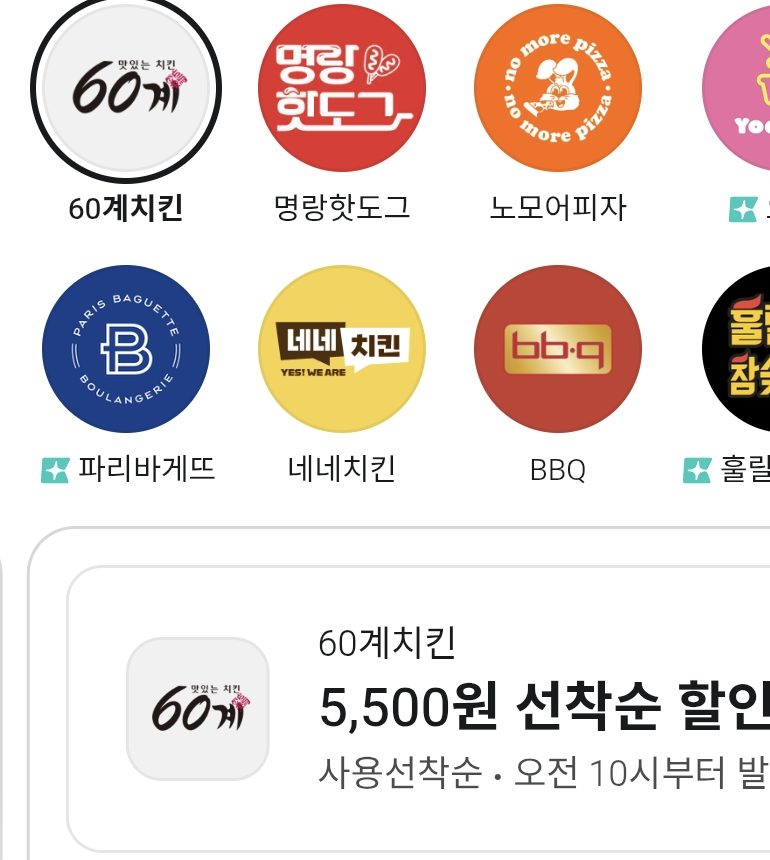
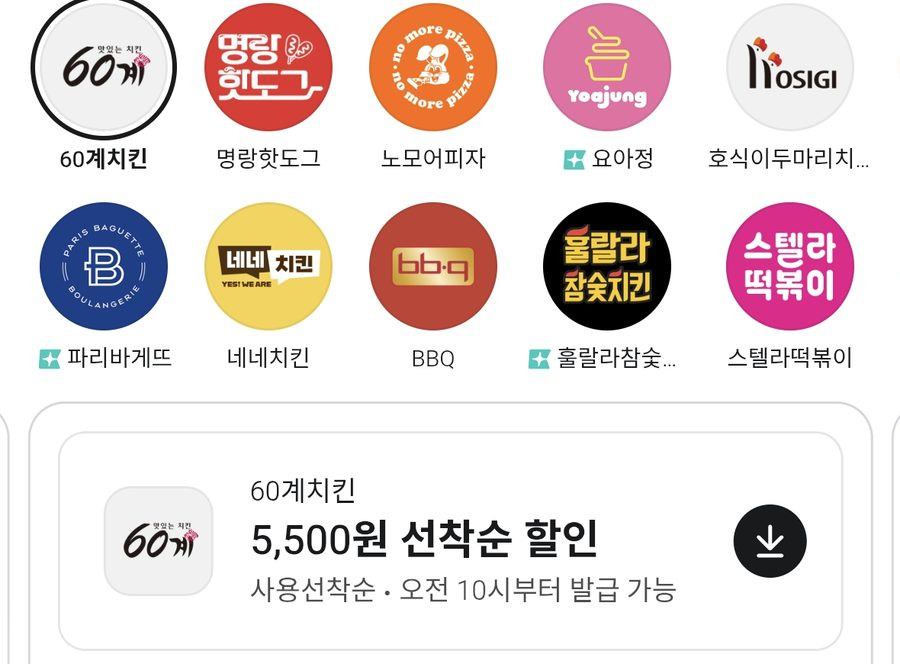
mirror: woowacourse-teams/2026-to-discount@99dfe029fcc38145db5ab3a02e480b0cabfeba2a
이 저장소에 직접 커밋하지 않는다. 원본은 woowacourse-teams/2026-to-discount의 web/ 이고, 여기 직접 넣은 것은 다음 미러에 덮인다.

diff --git a/public/about/index.html b/public/about/index.html
@@ -49,8 +49,10 @@
     .slide { position: relative; height: 100dvh; display: flex; flex-direction: column; justify-content: center; padding: 72px 20px 88px; overflow: hidden; }
     .slide__in { width: 100%; max-width: 1080px; margin: 0 auto; }
     .brand { position: absolute; top: 20px; left: 20px; right: 20px; max-width: 1080px; margin: 0 auto; font-weight: 800; text-decoration: none; letter-spacing: -.01em; }
-    .next { position: absolute; left: 50%; bottom: 24px; transform: translateX(-50%); width: 40px; height: 40px; display: grid; place-items: center; border-radius: 50%; color: var(--muted); text-decoration: none; }
+    .next { position: absolute; left: 50%; bottom: 24px; transform: translateX(-50%); width: 40px; height: 40px; display: grid; place-items: center; border-radius: 50%; color: var(--muted); text-decoration: none; z-index: 2; }
     .next svg { width: 20px; height: 20px; }
+    @media (max-width: 767px) { .next { bottom: 6px; width: 36px; height: 36px; background: color-mix(in srgb, var(--bg) 72%, transparent); } }
+    .pg { position: fixed; right: 16px; bottom: 12px; z-index: 3; color: var(--muted); font-size: .72rem; font-variant-numeric: tabular-nums; letter-spacing: .02em; pointer-events: none; }
 
     h1, h2 { margin: 0; letter-spacing: -.035em; font-weight: 800; text-wrap: balance; }
     h1 { font-size: clamp(2.3rem, 7vw, 3.8rem); line-height: 1.12; }
@@ -93,32 +95,30 @@
       .slide--shot { height: 100dvh; padding-bottom: 0; justify-content: flex-start; }
       .slide--shot .slide__in { flex: 1; display: flex; flex-direction: column; }
       .slide--shot .split { flex: 1; align-content: start; }
-      .slide--shot .next { display: none; }
     }
 
 
     /* 4. 멤버십 유무 비교: 같은 시각에 찍은 화면. 앱마다 한 줄, 멤버십 화면과 비회원 화면을 나란히 */
     .diff { display: grid; grid-template-columns: minmax(0, 1fr); gap: 22px; align-items: center; }
-    .slide--diff { padding-top: 64px; padding-bottom: 40px; }
+    .slide--diff { padding-top: 64px; padding-bottom: 48px; }
     .grid4 { display: grid; gap: 14px; width: 100%; max-width: 460px; justify-self: center; }
     .grid4 .row { display: grid; grid-template-columns: repeat(2, minmax(0, 1fr)); gap: 10px 12px; }
     .grid4 .row__app { grid-column: 1 / -1; display: flex; align-items: center; gap: 8px; margin: 0; font-weight: 700; letter-spacing: -.015em; }
     .grid4 .row__app img { width: 24px; height: 24px; border-radius: 7px; }
     .grid4 figure { margin: 0; min-width: 0; }
-    .grid4 img.shot { display: block; width: 100%; height: auto; aspect-ratio: 1 / 1.02; object-fit: cover; object-position: top; border-radius: 14px; border: 1px solid var(--border); box-shadow: 0 16px 32px -20px rgba(0, 0, 0, .5); }
+    .grid4 img.shot { display: block; width: 100%; height: auto; object-fit: cover; object-position: top; border-radius: 14px; border: 1px solid var(--border); box-shadow: 0 16px 32px -20px rgba(0, 0, 0, .5); }
     .grid4 figcaption { margin-top: 8px; font-weight: 700; font-size: .95rem; letter-spacing: -.015em; line-height: 1.3; }
     .grid4 figcaption span { display: block; color: var(--muted); font-weight: 500; font-size: .8rem; }
     .grid4 .is-member figcaption { color: var(--sale); }
-    @media (max-width: 767px) { .slide--diff .next { display: none; } }
 
     /* 5. 기기 구조: 수집 PC와 실기기, 서버, 사용자 기기 */
-    .arch { margin: 0; padding: 0; list-style: none; display: grid; gap: 8px; width: 100%; justify-self: center; }
-    .node { display: grid; gap: 8px; justify-items: center; text-align: center; padding: 12px; border: 1px solid var(--border); border-radius: 18px; background: var(--surface); min-width: 0; }
+    .arch { margin: 0; padding: 0; list-style: none; display: grid; gap: 3px; width: 100%; justify-self: center; }
+    .node { display: grid; gap: 4px; justify-items: center; text-align: center; padding: 8px 12px; border: 1px solid var(--border); border-radius: 18px; background: var(--surface); min-width: 0; }
     .node b { font-size: 1.02rem; letter-spacing: -.02em; line-height: 1.3; }
-    .node .sub { color: var(--muted); font-size: .86rem; line-height: 1.4; }
+    .node .sub { color: var(--muted); font-size: .82rem; line-height: 1.35; }
     .icons { display: flex; align-items: center; justify-content: center; gap: 12px; }
-    .ico { width: 52px; height: 52px; color: var(--text); }
-    .ico--s { width: 40px; height: 52px; }
+    .ico { width: 42px; height: 42px; color: var(--text); }
+    .ico--s { width: 32px; height: 42px; }
     .ico svg { display: block; width: 100%; height: 100%; fill: none; stroke: currentColor; stroke-width: 2; stroke-linecap: round; stroke-linejoin: round; }
     .phones { display: flex; gap: 10px; }
     .phone-tag { display: grid; justify-items: center; gap: 4px; }
@@ -135,15 +135,19 @@
     .card h3 { margin: 0; display: flex; align-items: center; gap: 8px; font-size: 1.02rem; letter-spacing: -.02em; line-height: 1.3; }
     .card h3::before { content: counter(card); flex: none; display: grid; place-items: center; width: 1.45rem; height: 1.45rem; border-radius: 50%; background: var(--sale); color: #fff; font-size: .78rem; font-weight: 800; font-variant-numeric: tabular-nums; }
     .card p { margin: 0; color: var(--muted); font-size: .86rem; line-height: 1.4; }
-    .slide--cards { padding: 52px 16px 16px; }
-    .slide--cards .next { display: none; }
+    .slide--cards { padding: 40px 16px 46px; }
+    .slide--cards h2 { font-size: 1.6rem; }
+    .slide--cards h2 br { display: none; }
+    .slide--cards h2 br + em { margin-left: .28em; }
     .slide--cards .diff { gap: 14px; }
     .slide--cards .lead { margin-top: 10px; font-size: 1rem; }
     .slide--cards .card { padding: 10px; gap: 6px; }
     .vis { height: 58px; overflow: hidden; border-radius: 12px; background: var(--code-bg); position: relative; }
-    .vis--code { height: 112px; }
-    .vis--check { height: 72px; }
+    .vis--code { height: 86px; }
+    .vis--check { height: 66px; }
+    .vis--fields { height: 122px; }
     .vis--img { height: 76px; }
+    .vis--web { height: 150px; }
     .vis--code::after { content: ''; position: absolute; left: 0; right: 0; bottom: 0; height: 22px; background: linear-gradient(transparent, var(--code-bg)); }
     .vis img { display: block; width: 100%; height: 100%; object-fit: cover; object-position: var(--pos, top); }
     .code { margin: 0; padding: 10px 12px; color: var(--code-fg); font: 500 .72rem/1.45 ui-monospace, SFMono-Regular, Menlo, Consolas, 'D2Coding', monospace; white-space: pre; overflow: hidden; }
@@ -155,14 +159,14 @@
     .times { display: flex; flex-wrap: wrap; gap: 8px; align-content: center; justify-content: center; height: 100%; padding: 10px; }
     .times b { padding: 6px 12px; border-radius: 999px; background: #26262b; color: var(--code-fg); font: 700 .95rem/1 ui-monospace, SFMono-Regular, Menlo, Consolas, monospace; letter-spacing: .02em; }
     .times b:nth-child(1) { box-shadow: inset 0 0 0 1.5px var(--sale); }
-    .checks { margin: 0; padding: 10px 12px; height: 100%; align-content: center; list-style: none; display: grid; gap: 6px; color: var(--code-fg); font-size: .8rem; line-height: 1.3; }
+    .checks { margin: 0; padding: 8px 12px; height: 100%; align-content: center; list-style: none; display: grid; gap: 4px; color: var(--code-fg); font-size: .76rem; line-height: 1.3; }
     .checks li { display: grid; grid-template-columns: 1.1rem minmax(0, 1fr); gap: 6px; align-items: start; }
     .checks li::before { content: ''; width: .55rem; height: .3rem; margin: .28rem 0 0 .1rem; border-left: 2px solid var(--code-str); border-bottom: 2px solid var(--code-str); transform: rotate(-45deg); }
 
     @media (min-width: 768px) {
       .diff { grid-template-columns: minmax(0, .9fr) minmax(0, 1.1fr); gap: 48px; }
       .slide--diff { padding-top: 56px; }
-      .grid4 { gap: 18px; max-width: 480px; }
+      .grid4 { gap: 20px; max-width: 540px; }
       #s5 .diff, #s6 .diff, #s7 .diff { grid-template-columns: minmax(0, 1fr); gap: 30px; }
       .arch { grid-template-columns: 1.55fr auto 1fr auto 1fr; gap: 12px; align-items: center; }
       .node { padding: 26px 16px; gap: 14px; }
@@ -173,11 +177,13 @@
       .cards { grid-template-columns: repeat(3, minmax(0, 1fr)); gap: 18px; }
       .card { padding: 14px; gap: 12px; }
       .slide--cards { padding: 72px 20px 88px; }
-      .slide--cards .next { display: grid; }
+      .slide--cards h2 { font-size: clamp(1.9rem, 5.5vw, 3rem); }
+      .slide--cards h2 br { display: inline; }
+      .slide--cards h2 br + em { margin-left: 0; }
       .slide--cards .diff { gap: 30px; }
       .slide--cards .lead { margin-top: 18px; font-size: 1.1rem; }
       .slide--cards .card { padding: 14px; gap: 12px; }
-      .vis, .vis--code, .vis--check, .vis--img { height: clamp(150px, calc(100dvh - 430px), 260px); }
+      .vis, .vis--code, .vis--check, .vis--img, .vis--web { height: clamp(150px, calc(100dvh - 430px), 260px); }
       .vis img { object-position: top; }
       .checks { gap: 14px; font-size: .95rem; padding: 14px 18px; }
       .code { font-size: .78rem; padding: 12px 14px; }
@@ -192,8 +198,8 @@
     .tech span { display: block; margin-top: 2px; color: var(--muted); font-size: .92rem; }
 
     /* 7. 문의 */
-    .contact { text-align: center; }
-    .contact .row { justify-content: center; display: flex; flex-wrap: wrap; gap: 12px; margin-top: 32px; }
+    .final .lead { margin-top: 14px; }
+    @media (max-width: 767px) { .final { padding: 44px 16px 24px; } .final .split { gap: 16px; } .final h2 { font-size: 1.6rem; } .final h2 br { display: none; } .final h2 br + em { margin-left: .28em; } .final .lead { font-size: 1rem; } .final .split .btn { margin-top: 14px; height: 46px; } .final .tech li { padding: 9px 0; } .final .tech b { font-size: 1rem; } .final .tech span { font-size: .85rem; } .final .foot { position: static; margin-top: 14px; font-size: .74rem; } .final .foot p { margin-bottom: 2px; } }
     .foot { text-align: center; position: absolute; left: 20px; right: 20px; bottom: 24px; max-width: 1080px; margin: 0 auto; color: var(--muted); font-size: .8rem; }
     .foot p { margin: 0 0 6px; }
 
@@ -215,6 +221,7 @@
 </head>
 <body>
   <main>
+   <div class="pg" id="pg" aria-hidden="true"></div>
    <div class="track">
     <section class="slide slide--shot" id="s1">
       <a class="brand" href="/">배달앱 할인모음</a>
@@ -276,13 +283,13 @@
         <div class="grid4 rise" style="--i:2">
           <div class="row">
             <p class="row__app"><img src="/platform-icons/coupangeats.png" alt="" />쿠팡이츠</p>
-            <figure class="is-member"><img class="shot" src="/about/diff-wow.jpg" width="660" height="715" alt="쿠팡이츠 멤버십(와우) 화면. 치킨 브랜드 할인 맨 위에 기영이숯불치킨 5,000원 할인이 있다." /><figcaption>멤버십 화면<span>오후 5:54</span></figcaption></figure>
-            <figure><img class="shot" src="/about/diff-nonwow.jpg" width="660" height="715" alt="쿠팡이츠 비회원 화면. 같은 목록에 기영이숯불치킨이 없고 훌라라치킨이 맨 위다." /><figcaption>비회원 화면<span>오후 5:54</span></figcaption></figure>
+            <figure class="is-member"><img class="shot" src="/about/diff-wow.jpg" width="900" height="481" alt="쿠팡이츠 멤버십(와우) 화면. 치킨 브랜드 할인 맨 위에 기영이숯불치킨 5,000원 할인이 있다." /><figcaption>멤버십 화면<span>오후 5:54</span></figcaption></figure>
+            <figure><img class="shot" src="/about/diff-nonwow.jpg" width="900" height="481" alt="쿠팡이츠 비회원 화면. 같은 목록에 기영이숯불치킨이 없고 훌라라치킨이 맨 위다." /><figcaption>비회원 화면<span>오후 5:54</span></figcaption></figure>
           </div>
           <div class="row">
             <p class="row__app"><img src="/platform-icons/baemin.png" alt="" />배달의민족</p>
-            <figure class="is-member"><img class="shot" src="/about/diff-club.jpg" width="770" height="860" alt="배민 멤버십(배민클럽) 화면. 60계치킨 5,500원 선착순 할인과 3,000원 할인, 가게 배달팁 0원." /><figcaption>멤버십 화면<span>오후 5:50</span></figcaption></figure>
-            <figure><img class="shot" src="/about/diff-nonclub.jpg" width="770" height="860" alt="배민 비회원 화면. 60계치킨 3,000원 할인만 있고 가게 배달팁 2,700원, 3,400원." /><figcaption>비회원 화면<span>오후 5:50</span></figcaption></figure>
+            <figure class="is-member"><img class="shot" src="/about/diff-club.jpg" width="900" height="664" alt="배민 멤버십(배민클럽) 화면. 60계치킨 5,500원 선착순 할인과 3,000원 할인, 가게 배달팁 0원." /><figcaption>멤버십 화면<span>오후 5:50</span></figcaption></figure>
+            <figure><img class="shot" src="/about/diff-nonclub.jpg" width="900" height="664" alt="배민 비회원 화면. 60계치킨 3,000원 할인만 있고 가게 배달팁 2,700원, 3,400원." /><figcaption>비회원 화면<span>오후 5:50</span></figcaption></figure>
           </div>
         </div>
       </div>
@@ -306,13 +313,13 @@
               </div>
             </div>
             <b>수집 PC와 실기기</b>
-            <span class="sub">PC가 폰 두 대의 앱 화면을 읽어요</span>
+            <span class="sub">PC가 폰 여러 대의 앱 화면을 읽고, 실제 할인 금액을 검증해요.</span>
           </li>
           <li class="hop" aria-hidden="true"><span>업로드</span></li>
           <li class="node">
             <div class="icons"><div class="ico"><svg viewBox="0 0 48 48"><rect x="6" y="6" width="36" height="11" rx="3" /><rect x="6" y="19" width="36" height="11" rx="3" /><rect x="6" y="32" width="36" height="11" rx="3" /><path d="M13 11.5h.01M13 24.5h.01M13 37.5h.01" /></svg></div></div>
             <b>서버</b>
-            <span class="sub">점검한 할인 값을 받아 보관해요</span>
+            <span class="sub">수집된 할인 금액을 이전 기록과 대조하고, 오늘의 할인 정보를 정리해요.</span>
           </li>
           <li class="hop" aria-hidden="true"><span>제공</span></li>
           <li class="node">
@@ -321,7 +328,7 @@
               <div class="ico"><svg viewBox="0 0 48 48"><rect x="8" y="9" width="32" height="22" rx="2.5" /><path d="M3 38h42" /></svg></div>
             </div>
             <b>사용자 기기</b>
-            <span class="sub">웹과 API로 보여 줘요</span>
+            <span class="sub">오늘의 할인 정보를 사용자에게 제공해요.</span>
           </li>
         </ol>
       </div>
@@ -337,12 +344,12 @@
         <ol class="cards rise" style="--i:2">
           <li class="card">
             <h3>실제 앱 화면</h3>
-            <div class="vis vis--img" style="--pos: center 80%"><img src="/about/diff-club.jpg" width="770" height="860" alt="배민 멤버십 계정 화면. 60계치킨 5,500원 선착순 할인." /></div>
+            <div class="vis vis--img" style="--pos: center 84%"><img src="/about/diff-club.jpg" width="900" height="664" alt="배민 멤버십 계정 화면. 60계치킨 5,500원 선착순 할인." /></div>
             <p>계정마다 폰에서 직접 열어요</p>
           </li>
           <li class="card">
             <h3>글자를 값으로</h3>
-            <div class="vis vis--code"><pre class="code"><span class="d">화면 글자</span>
+            <div class="vis vis--code vis--fields"><pre class="code"><span class="d">화면 글자</span>
 <i class="s">"3,000원 배민클럽 두찜 할인"</i>
   <span class="arrow">↓</span>
 <i class="k">amount</i>      <i class="n">3000</i>
@@ -397,7 +404,7 @@
           </li>
           <li class="card">
             <h3>웹 화면</h3>
-            <div class="vis vis--img" style="--pos: center 34%"><img src="/about/home.jpg" width="390" height="844" alt="할인 목록 화면. 브랜드마다 가장 큰 할인 금액과 그 할인을 주는 앱이 보인다." /></div>
+            <div class="vis vis--web"><img src="/about/flow-web.jpg" width="740" height="610" alt="할인 목록 화면. 브랜드마다 가장 큰 할인 금액과 그 할인을 주는 앱이 보인다." /></div>
             <p>브랜드별로 한곳에서 비교해요</p>
           </li>
         </ol>
@@ -405,9 +412,13 @@
       <a class="next" href="#s8" aria-label="다음"><svg viewBox="0 0 20 20" fill="none" stroke="currentColor" stroke-width="2" stroke-linecap="round"><path d="M5 8l5 5 5-5" /></svg></a>
     </section>
 
-    <section class="slide" id="s8">
+    <section class="slide final" id="s8">
       <div class="slide__in split">
-        <h2 class="rise">과장 없이,<br /><em>정확한 값</em>으로</h2>
+        <div>
+          <h2 class="rise">과장 없이,<br /><em>정확한 값</em>으로</h2>
+          <p class="lead rise" style="--i:1">오늘의 할인,<br />직접 확인해 보세요.</p>
+          <a class="btn rise" style="--i:2" href="/">바로가기 <i><svg viewBox="0 0 16 16" fill="none" stroke="currentColor" stroke-width="2" stroke-linecap="round"><path d="M3 8h10M9 4l4 4-4 4" /></svg></i></a>
+        </div>
         <ul class="tech">
           <li class="rise" style="--i:1"><div><b>앱마다 다른 할인, 한곳에서</b></div></li>
           <li class="rise" style="--i:2"><div><b>부풀리지 않은 실제 할인 금액</b></div></li>
@@ -415,16 +426,6 @@
           <li class="rise" style="--i:4"><div><b>실제 앱 화면으로 직접 확인</b><span>자동으로 비교하고 판별</span></div></li>
           <li class="rise" style="--i:5"><div><b>한정, 선착순 할인 실시간 제공</b><span>선착순은 소진까지 확인</span></div></li>
         </ul>
-      </div>
-      <a class="next" href="#s9" aria-label="다음"><svg viewBox="0 0 20 20" fill="none" stroke="currentColor" stroke-width="2" stroke-linecap="round"><path d="M5 8l5 5 5-5" /></svg></a>
-    </section>
-
-    <section class="slide contact" id="s9">
-      <div class="slide__in">
-        <h2 class="rise">오늘의 할인,<br /><em>직접 확인</em>해 보세요</h2>
-        <div class="row rise" style="--i:1">
-          <a class="btn" href="/">바로가기 <i><svg viewBox="0 0 16 16" fill="none" stroke="currentColor" stroke-width="2" stroke-linecap="round"><path d="M3 8h10M9 4l4 4-4 4" /></svg></i></a>
-        </div>
       </div>
       <footer class="foot">
         <p>각 배달앱의 공식 서비스가 아니며,<br />모든 상표는 각 권리자에게 있습니다.</p>
@@ -443,12 +444,15 @@
     const reduce = matchMedia('(prefers-reduced-motion: reduce)').matches
     let cur = 0, busy = false, acc = 0, y0 = null
     const track = document.querySelector('.track')
+    const pg = document.getElementById('pg')
+    pg.textContent = `1 / ${slides.length}`
     const go = (i) => {
       i = Math.min(slides.length - 1, Math.max(0, i))
       if (i === cur || busy) return
       cur = i; busy = true
       track.style.transform = `translate3d(0, ${-i * box.clientHeight}px, 0)`
       slides[i].classList.add('in')
+      pg.textContent = `${i + 1} / ${slides.length}`
       setTimeout(() => { busy = false }, reduce ? 50 : 600)
     }
     box.addEventListener('wheel', (e) => {
